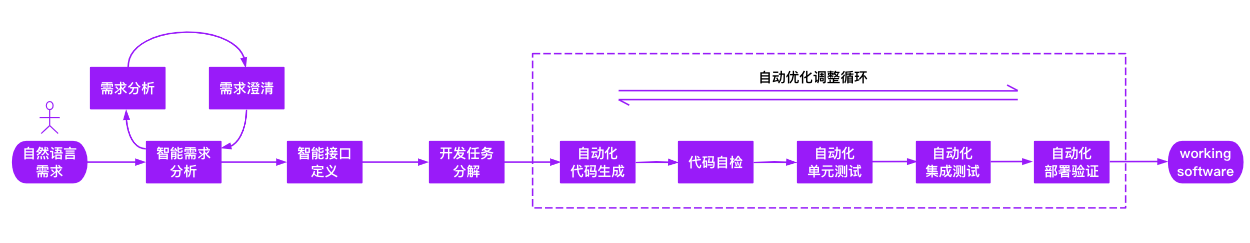
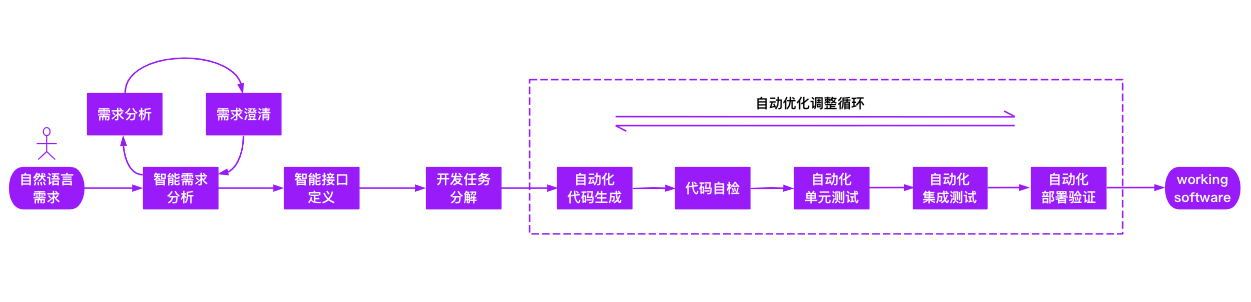
chore(docs): add flowchart

diff --git a/README.md b/README.md
@@ -32,6 +32,10 @@ Welcome to the AI Driven Software Development Automation Solution, abbreviated a
 
 
 ## Workflow
+Through the above introduction and Demo demonstration, you must be curious about how DevOpsGPT achieves the entire process of automated requirement development in an existing project. Below is a brief overview of the entire process:
+
+![工作流程](docs/files/intro-flow-en.png)
+
 - Clarify requirement documents: Interact with DevOpsGPT to clarify and confirm details in requirement documents.
 - Generate interface documentation: DevOpsGPT can generate interface documentation based on the requirements, facilitating interface design and implementation for developers.
 - Write pseudocode based on existing projects: Analyze existing projects to generate corresponding pseudocode, providing developers with references and starting points.
